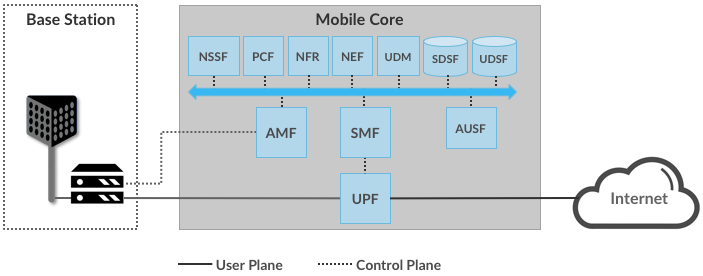
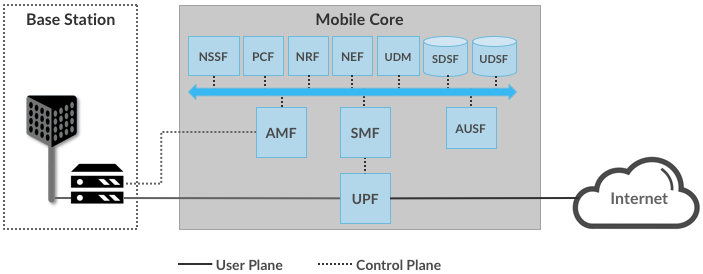
publish latest

diff --git a/searchindex.js b/searchindex.js
@@ -1,1 +1,1 @@
-Search.setIndex({docnames:["README","arch","cloud","disaggregate","impl","index","intro","preface","primer","ran"],envversion:{"sphinx.domains.c":1,"sphinx.domains.changeset":1,"sphinx.domains.cpp":1,"sphinx.domains.javascript":1,"sphinx.domains.math":2,"sphinx.domains.python":1,"sphinx.domains.rst":1,"sphinx.domains.std":1,"sphinx.ext.todo":1,sphinx:55},filenames:["README.rst","arch.rst","cloud.rst","disaggregate.rst","impl.rst","index.rst","intro.rst","preface.rst","primer.rst","ran.rst"],objects:{},objnames:{},objtypes:{},terms:{"100mhz":8,"10\u03bc":8,"10mhz":6,"10s":6,"120khz":8,"125m":8,"15khz":8,"1ghz":8,"1ms":[8,9],"24ghz":8,"25m":8,"30\u03bc":8,"30khz":8,"3gpp":[1,2,3,6,8,9],"3rd":6,"400mhz":8,"50mhz":8,"5ms":8,"60khz":8,"6ghz":8,"7x12":8,"abstract":[3,4,7,8],"break":[1,2,6],"byte":9,"case":[1,3,6,7,8],"class":[2,3,8],"final":[3,6,8,9],"function":[1,2,3,4,6,9],"import":[1,2,3,4,6,7,8],"long":6,"new":[0,1,2,3,6,9],"public":[2,3,6],"return":4,"short":[1,8],"super":8,"switch":[2,3,4,6,8,9],"true":1,"try":[4,7,8],"while":[1,3,6,8,9],And:[1,7],Being:2,But:[1,3,4,6,7,8,9],DUs:[4,9],For:[1,3,6,8],Going:3,IDs:9,NOS:3,Near:[2,9],One:[1,3,4,6,8,9],QoS:[1,2,3,8],RBs:3,REs:8,RUs:[4,9],Such:6,That:2,The:[0,1,2,3,4,6,7,8,9],There:[2,3,6,8],These:[1,3,4,6,8,9],UEs:[1,3,9],Used:4,Using:1,VMs:[2,6],With:[1,4,8,9],_build:0,abil:[2,3,8],abl:[2,3,9],abound:[],about:[1,2,3,4,5,6,7,8,9],abov:[6,8,9],abstractli:8,abund:3,access:[5,7,8,9],accommod:4,accompli:6,accord:[3,8,9],account:3,accur:8,acm:2,acquir:2,acronym:[1,4,6,7],across:[1,2,3,4,6,9],activ:[1,7,9],actual:[3,4],adapt:[2,8],add:[3,8],adding:[1,8],addit:[1,3,4,8],address:[0,1,2,8],adjac:8,adjust:8,adopt:[1,6,9],advanc:[1,4,5,6],advantag:2,affect:[3,8],again:8,aggreg:[1,6],aggress:6,agnost:[3,4,6,9],agricultur:1,aid:3,air:8,algorithm:[1,8],all:[1,2,3,4,6,8,9],allianc:9,alloc:[1,3,6,8],allow:[1,2,3,4,6,8,9],almost:1,alon:1,along:[6,8],alongsid:2,alreadi:[1,3,6],also:[0,1,2,3,4,6,7,8,9],altern:[1,3,4,6,9],although:[1,3,4,9],amazon:3,ambiti:[6,9],america:6,amf:[1,3],among:[0,3,8],amplitud:8,analog:[1,3],analysi:2,analyt:[2,3,9],analyz:[2,3],anchor:[1,6],ani:[2,3,6,8],anoth:[1,2,3,6,8,9],answer:[4,6],antenna:[1,8],anyon:[1,2,3,6,7,8],anywher:[4,6],api:[1,2,4,9],app:[3,4,9],appear:[1,4],appli:[2,6],applianc:[1,6],applic:[2,3,4,6,8,9],appreci:[6,8],approach:[0,1,4,6,8],appropri:[1,3],april:2,arbitrari:1,architect:[4,6],architectur:[3,5,6,8,9],area:[1,6,9],around:[6,8],arq:9,arrai:8,arrang:4,arriv:8,art:8,asic:4,asid:[1,3,6],ask:6,aspect:[1,2,3,4,6,9],aspir:6,assembl:[1,4],assign:[3,8,9],associ:[1,3,4,8],assum:8,assumpt:[2,8],atacent:4,attach:6,attent:[0,1,4,6],attenu:8,attribut:[0,8,9],auction:6,augment:6,august:7,ausf:1,authent:1,author:[0,1],auto:4,autonom:6,autonomi:2,avail:[0,1,2,3,4,6,8],avenu:9,averag:[8,9],awai:4,awar:3,axi:8,back:[0,1,2,3,6,8,9],backbon:6,backend:[2,7],backhaul:[1,4,9],backward:1,balanc:1,band:[6,8],bandwidth:[2,3,4,6,7,8],barrier:[2,3,6],base:[1,2,3,4,6,8,9],basi:[3,8],basic:[3,5],batteri:6,bearer:[1,9],becaus:[1,3,4,6,8],becom:[1,2,6,8],been:[1,3,4,6,7,9],befor:[1,3,4],beg:[6,8],began:6,behalf:[2,3,6,8,9],behavior:[3,4],being:[1,2,3,4,6,8,9],belong:8,below:8,benefit:3,best:[1,2,3,6,8],better:2,between:[1,2,3,4,6,7,8,9],beyond:[3,4,6,9],bgp:4,bias:[],big:[2,3,6],bill:1,binari:4,bit:[6,7,8],block:[1,2,3,8],blog:[0,1],blue:[3,4],blueprint:4,blur:[2,7],book:[2,3,4,5,7,9],bootstrap:4,both:[1,2,3,4,6,8,9],bought:1,bounc:8,bound:8,box:[2,3,4,6],brick:2,bridg:[1,4],bring:[6,8],broadband:[1,3,6,8],broader:1,browser:0,budget:8,buffer:9,build:[2,3,4,5,6],built:[4,6],bundl:1,burst:8,bus:1,busi:6,calcul:8,call:[1,2,3,4,6,8,9],came:1,campu:9,can:[0,1,2,3,4,6,7,8,9],candid:1,cannot:6,capabl:[1,2,4,5,9],capac:[2,3,6],car:[1,6,8],carri:[1,4],carrier:[1,8,9],categori:8,caveat:1,cbr:6,ccr:2,cdma:8,cell:[2,3,6,8,9],cellular:[1,2,3,4,6,7,8],central:[2,3,4,6,8,9],certain:[3,6],certainli:6,certif:4,chain:[1,2],challeng:[1,2,3,8],chang:[1,2,3,6,7,8,9],channel:[1,6,8],chapter:5,characterist:8,charg:[1,3,8],check:[0,6],chip:4,choic:[1,3,4,6],choos:3,cipher:9,circuit:[1,8],citi:1,citizen:6,claim:6,clean:3,clear:[1,6],clearli:[3,9],cli:4,clone:0,close:6,closer:[1,4,6],cloud:[1,4,5,7,9],cloudif:5,cluster:[3,4,9],coars:9,code:[1,3,4,5,9],coher:8,coincid:6,collabor:7,collect:[1,2,3,4,6],colloqui:6,color:8,com:0,comac:4,combin:[1,2,3,4,8],come:[3,7,9],commentari:0,commod:[1,2,4,6],commodit:2,common:[0,1,2,3,4,6,8,9],commonli:[1,2],commun:[0,1,3,4,6,8,9],compani:3,compat:1,compel:3,complet:[1,3,4,7,8,9],complex:[1,6,7],compliant:[1,2,9],complic:[6,8],compon:[2,3,5,6,9],comprehens:6,compress:9,comput:[2,3],conceptu:[1,3,8],concern:[1,7],concert:3,conclud:2,concret:[3,4,6],config:9,configur:[1,3,4,9],confus:[1,3],confusingli:3,connect:[1,2,3,4,6,7,8,9],consequ:[2,3,8],consid:[1,6,8],consist:1,constantli:2,constitu:9,constrain:[6,9],constraint:[3,8],construct:[1,2,9],contain:[0,1,2,3,4],content:[5,7,8],context:6,continu:[6,8],contract:4,contribut:[1,4,5,7],control:[1,2,3,4,6,9],convent:[2,4],converg:[2,9],convers:9,cool:[3,6],cooper:[1,3],coordin:1,copi:2,cord:[4,6],core:[2,4,5,8,9],correct:[0,8],correspond:[1,3,4,6,8,9],correspondingli:8,cost:6,could:[1,2,3,8],counterpart:[1,4],countri:6,cours:[3,8],coverag:8,cpu:3,cqi:[3,8,9],creat:0,creativ:0,credenti:1,critic:[2,6,8,9],cryptic:1,crypticli:1,cup:1,current:[0,4],custom:[1,2,3,4],cut:3,cycl:3,dare:6,data:[1,2,4,5,6,8,9],databas:[1,6],datacent:[2,3,6],deal:3,decad:6,decid:[1,3,8],decis:[1,3,4,6,8,9],declar:4,decompress:9,decoupl:[2,3],deeper:[1,3,4,7,8],defin:[1,2,3,4,5,6,8],definit:[4,6],degre:[6,8],delai:8,deliv:8,demarc:6,democrat:2,demonstr:4,demultiplex:[3,9],denot:[1,3,4,8],densiti:6,depend:[3,6,8],depict:[1,2,3,8,9],deploi:[1,2,4,6],deploy:[4,5,6,9],depth:[1,8],describ:[1,2,3,4,6,8,9],descript:[8,9],deserv:4,design:[1,2,3,4,6,8],desir:[1,9],despit:1,detail:[1,3,4,6,7,9],detect:[1,8],determin:[8,9],develop:[2,4,6,7],deviat:4,devic:[1,2,3,4,6,7,8,9],devop:[4,6],dhcp:4,diagram:[3,4],dictat:2,differ:[1,2,3,4,6,8],differenti:[1,2,3,8],digit:[1,3,8],dimens:[],dimension:[3,8],direct:[1,3,4,6,8],directli:[1,3,6],disaggreg:[1,2,3,4,6,9],disconnect:1,discov:1,discoveri:1,discuss:[1,3,4,6,8,9],distinct:1,distort:8,distribut:[2,3,4,6,9],divers:8,divid:[1,3],dividend:3,divis:8,doc_venv:0,document:[0,1,4,9],doe:[1,4,6,8,9],doesn:1,doing:[2,3,9],domain:[2,8],domin:7,done:[2,3,9],door:[1,6,8],down:[2,3,6,9],download:0,downstream:[4,9],dozen:3,dramat:2,drive:6,driven:9,drone:1,dryjanski:1,dual:[3,4],due:8,durat:8,dure:[8,9],dwell:6,dynam:[2,8],each:[1,2,3,4,6,8,9],earli:[1,9],earlier:[3,4,8,9],easi:2,easili:3,east:4,ebook:0,economi:3,edg:[1,2,3,4,5],effect:[1,3,6,8,9],effici:1,effort:[1,6,8],either:[1,3,6],elabor:4,elast:[2,3],electromagnet:8,element:[1,2,3,6,8,9],elev:3,els:[3,8],elsewher:[1,4],embed:6,emerg:2,empir:8,emploi:8,enabl:[1,3,4,9],enb:[1,9],encod:8,encompass:7,encycloped:7,end:[1,2,3,6,7,9],endeavor:6,energi:6,enforc:[1,2],engin:[1,3,4,6],enhan:6,enodeb:[1,3],enough:[4,7],ensur:1,enterpris:2,entir:[2,3,4,7,9],entireti:4,entiti:[1,3],entral:4,enumer:6,environ:[2,4,8],environment:8,epc:[1,4],equal:[1,3,9],equip:[1,8],error:8,essenti:[1,2,8],establish:1,even:[1,2,3,4,6,8],eventu:[2,3],everi:[1,7,8],everyon:[3,6],everyth:6,evid:8,evolut:6,evolutionari:6,evolv:[0,1,4,6],exactli:[1,3,4,6],exampl:[1,2,3,6,8,9],exclus:6,exemplar:[5,6],exercis:1,exert:9,exhaust:9,exist:[1,2,4,6],expand:[2,4],expect:[2,6],expens:3,experi:[6,7],experienc:8,expert:7,explain:[1,6,9],explicitli:8,exploit:3,explor:[3,8],expos:1,exposur:1,extend:[3,4,6],extern:1,extra:8,extrem:[3,6],fabric:[3,4,9],face:[1,6,9],facebook:0,facet:1,facil:3,facilit:3,fact:6,factor:[1,3,8,9],factori:9,fade:8,fair:7,fait:6,fall:[3,6],famili:8,familiar:[1,2,8,9],far:2,fast:6,faster:8,favor:7,feasibl:2,featur:[1,4,6],fec:9,feedback:[3,8],few:[6,9],ffice:4,fiber:[1,2,4,6],field:1,fifth:1,fig:[],figur:[1,2,3,4,7,8,9],file:0,fill:3,find:[0,4],first:[0,1,2,3,4,6,8,9],fit:1,five:1,fix:[4,8],flesh:7,flexibl:[1,3],flow:[3,8,9],focu:[8,9],focus:[1,4,8,9],follow:[0,1,3,4,6,8,9],forc:4,forese:7,form:[3,8,9],format:[0,8],former:[4,6],fortun:8,forward:[1,2,3,4,8,9],found:[1,2],foundat:[1,6,7,8],four:4,fourth:[1,3],fraction:3,fragment:1,frame:8,framework:[5,8],free:3,freedom:[6,8],frequenc:[1,6,8,9],from:[1,2,3,4,6,7,8,9],front:9,frontent:7,fronthaul:9,fulfil:1,full:1,fulli:[1,2,6],fundament:[1,2,3,6,8],further:[1,3,4,8],futur:[6,7,9],gatewai:1,gbp:6,gbr:8,gener:[0,1,2,3,4,6,7,8],geograph:[1,6,9],get:[0,1,3,4,6,9],ghz:6,git:0,github:0,give:[2,3,4,6,8],given:[1,3,4,6,8,9],global:[1,2,6],globe:6,gnb:1,gnmi:4,gnoi:4,goal:[3,4,6,8],goe:6,going:3,good:[1,6],googl:[3,6],govern:6,gpu:2,grain:9,granular:[1,2],graph:[1,3],grappl:1,gratuit:1,greater:6,grid:[3,8],ground:[6,8],group:1,grpc:4,gtp:[1,9],guarante:[2,3,8],guid:[0,4],had:7,halv:3,hand:[1,7],handoff:3,handov:1,handset:2,happen:[2,3,6,7],hard:7,harder:3,hardwar:[2,3,4,6],has:[1,2,3,4,6,7,8,9],have:[1,3,4,6,8],head:[3,6,7,9],header:9,hear:1,heard:[6,7],heavili:1,help:[1,2,3,4,6,7,8,9],helper:1,henc:[1,3,8,9],here:[0,1,6,8],heterogen:2,heurist:2,hidden:7,hide:3,hierarchi:9,high:[2,3,6,8],higher:[3,8],highli:[2,3,4,8],highlight:1,histor:[1,3,6],histori:6,home:[1,4,6],hope:[0,7],horizont:6,host:[2,4,6,9],how:[0,1,2,3,4,6,8,9],hss:[1,3],html:0,http:0,human:[2,6],hundr:6,hype:7,hypervisor:3,iceberg:1,idea:[1,3,4,6,8,9],ideal:6,ident:1,identifi:[1,2,6,8,9],idl:[1,8,9],ieee:6,ietf:1,ignor:[1,7],illustr:[1,4,6,8],immers:6,impact:[2,6,8],impair:8,implement:[1,2,3,5,6,7,9],impli:[1,2,3,4,6,7,8],implicit:[],importantli:2,impos:[2,8],imposs:7,improv:[0,4],includ:[0,1,2,3,4,6,8,9],incom:3,increas:[2,6,8],increasingli:[1,6],increment:[1,4],independ:[2,3,4,6,8],index:3,indic:8,indirect:[3,6],indirectli:1,individu:[1,2,4],industri:[1,3,6],influenc:1,inform:[0,1,3,4,8,9],infrastructur:[2,3,6],inher:2,inner:4,innov:[2,7,8,9],input:8,insert:8,insid:7,insight:9,inspir:6,instal:[0,4],instanc:3,instantan:9,instanti:4,instead:[1,4,8],instruct:3,integr:[2,6,9],intellectu:1,intend:[7,8,9],intent:6,intercept:1,interconnect:[1,2,3,6],interfac:[2,4,6,9],interfer:[3,8],intermitt:1,intern:[1,3,4,5],internet:[0,1,3,4,6,7],interpret:[4,6,8],interv:[8,9],introduc:[1,3,4,6,7,8,9],introduct:[1,4,5],intuit:8,invari:8,invers:8,invit:0,involv:[1,2,3,6,7,9],iot:[1,3,6,8],ipv4:4,ipv6:4,isdn:1,isol:[2,6],issu:[0,1,6],its:[1,2,3,4,6,7,8],job:[3,8],judg:8,judgement:3,just:[1,2,3,6,7,8],justic:1,keep:[1,3,4,6,8,9],kei:[1,3,4,8,9],kilobit:6,kilomet:6,kind:[1,6],know:7,known:[1,3,6,8],kpi:9,kubernet:4,label:[3,9],lack:1,lai:[6,8],lambda:2,landscap:5,languag:3,larg:[1,3,4,6,7],larger:[1,3],larri:[0,7],last:[1,6,7,8,9],late:9,latenc:[1,2,3,6,9],later:[1,4,6,8,9],latter:[1,3,6,9],law:1,layer:[1,3,4,6,9],lead:[6,8],leaf:[3,4],learn:[0,4,6],leav:[3,4,6],led:9,left:9,legaci:6,len:6,length:9,less:3,level:[1,2,3,6,8],licens:[0,6],life:6,lifetim:6,lightli:8,like:[0,1,2,3,4,6,7,8,9],likewis:8,limit:[3,4,6,7],line:[2,3,7,8],linear:3,link:[1,8,9],lint:0,list:[0,6,9],littl:6,live:[0,4],load:[1,4,8],local:[1,3,4],locat:[1,2,3,6,9],lock:3,logic:[3,4],longer:8,look:[0,1,3],loop:[2,9],lose:2,loss:[1,8],low:[2,3,6,9],lower:[2,3,6],lte:[6,8],mac:[3,9],machin:1,macro:3,made:[1,2,3,7,8],mai:[1,8],main:[5,9],maintain:9,major:[3,4,8],make:[0,1,2,3,4,6,8,9],makefil:0,mall:9,manag:[1,2,4,6,7,9],mani:[1,2,3,4,6,8,9],manifest:4,manipul:4,map:3,march:1,marcin:1,massiv:[1,3,6,8],match:8,materi:[0,7],math:[],mathsf:[],matter:[1,8],matur:4,maxim:8,maximum:8,mbp:6,mean:[1,3,4,6,8,9],meaning:9,measur:[6,9],mechan:[1,2,3,8],media:9,medic:1,medium:8,meet:1,megabit:6,mention:8,merg:[0,4],mesh:[1,3],messag:[1,8],met:6,metric:8,metropolitan:1,mhz:6,microservic:[1,3,4,6,9],mid:6,midhaul:[4,9],might:[0,1,2,3,4,6,8,9],migrat:[1,6],mile:[6,7],millimet:[6,8],million:6,millisecond:8,mimo:8,mind:[1,3,4,6,8,9],minim:[2,3,4,8],mission:[6,8],mkdir:0,mme:[1,3],mmwave:[6,8,9],mobil:[0,2,3,4,6,7,8,9],mode:4,model:[1,4,8],modern:3,modestli:9,modul:[3,4,5,9],monet:[2,3],more:[1,2,3,4,6,7,8,9],most:[3,8,9],mostli:[6,9],move:[1,2,3,6,8],movement:[1,8],mpl:4,mtso:6,much:[2,6,7,8],multi:[1,4,5,6],multicast:4,multipath:[1,8],multipl:[1,2,3,4,8,9],multiplex:[8,9],municip:6,must:[3,6,8,9],mutual:6,mvno:3,myriad:7,mysteri:7,name:[1,3,4,6],narrow:8,nation:6,nativ:[1,2,6],natur:[8,9],naval:6,navig:6,nbi:4,necessari:[1,3,4],need:[0,1,2,3,8,9],nef:1,neighbor:[1,9],nest:1,network:[0,2,4,7,8,9],next:[1,3,6,8,9],nfr:1,nfv:[1,6],nib:9,nine:8,node:[1,6,9],nois:8,non:[1,8],north:6,northbound:4,note:[1,3,6,8,9],noteworthi:1,notic:0,now:[1,2,3,4,6,7,9],nssf:[1,3],number:[2,3,6,8,9],nutshel:6,object:[6,8],observ:[1,2,8],obviou:[1,6],obvious:1,occupi:6,octob:6,ofdma:[3,8],off:[4,6,8],offer:[2,3,6,8],offic:[3,4,6],offici:[1,4,6,9],often:[1,3,6,8],oguz:[0,7],old:6,onc:[3,6,8],one:[1,3,4,6,7,8,9],ones:4,onli:[1,3,4,6,8,9],onlin:0,ono:[3,4],onto:[3,4],opaqu:1,open:[0,1,2,3,4,6,7,8,9],openconfig:4,opencord:[],oper:[1,2,3,4,6,8,9],opportun:[1,5,7],oppos:[1,6],optic:[1,6],optim:[4,5,8],optimist:8,option:[4,5,6,8],orang:4,orchestr:2,order:2,org:0,organ:[1,2,3],orient:[1,2,7,8,9],origin:[1,6,8,9],orthogon:8,other:[0,1,2,3,4,6,7,8,9],otherwis:7,ott:2,our:[1,3,4,6,8],ourselv:6,out:[0,1,2,3,6,7],outbound:9,outgo:1,outlin:[1,4,9],output:[0,8],over:[1,2,3,6,7,8,9],overal:6,overhead:2,overlai:3,overlap:[3,8],overnight:6,overview:[1,2,4],overwhelm:6,own:[2,3,4,6],owner:6,p4runtim:4,pace:2,packet:[1,3,4,5,6,8],pai:[3,6],pair:[1,3,4],pairwis:1,parallel:6,paramet:[8,9],part:[1,3,4,6,9],parti:1,partial:4,particip:[],particular:[1,4,9],particularli:1,partit:[1,3,9],partli:1,partnership:6,passiv:[1,6],past:6,path:[1,3,6,8,9],pattern:1,payload:1,pcdp:3,pcf:1,pcrf:[1,3],pdcp:[3,9],pdf:0,peak:6,penetr:7,peopl:[2,7],per:[1,3,4,6,8,9],perceiv:1,perfect:3,perform:[2,3,4],perhap:9,period:[1,8,9],peripheri:6,permit:6,persist:9,person:7,perspect:[1,2,6,7,8],peterson:[0,7],pgw:[1,3,4],phase:[1,8],phy:[3,9],physic:[1,3,6,8,9],pictur:[2,3,9],piec:8,pipelin:[2,3,4,5],place:[1,3,4,6],placement:2,plai:[1,2,4,8],plan:[1,7],plane:[1,4,5,9],platform:[2,5,6],plu:[4,8,9],plug:8,pod:4,point:[1,2,3,6,9],polar:8,polic:1,polici:[1,9],pon:[1,6],popul:[4,6],portion:6,possibl:[1,3,4,6,8,9],post:[0,1],potenti:[1,2,4,6,7,9],power:[1,3,6],practic:[1,2,3,4,6,8,9],prb:8,preced:8,predetermin:1,predict:[3,9],prefac:5,premis:[2,4],premium:3,prepar:8,prescrib:[1,3],presenc:6,present:[1,6],pressur:6,presum:1,preval:1,preview:3,previou:[1,2,3,4,8,9],primari:[6,8],prime:1,primer:8,principl:[3,6,9],prior:1,prioriti:[3,6,8],privat:[2,6],problem:[2,3,8],process:[0,1,3,4,5],processor:[1,2,3],product:[4,6],profil:4,program:[2,3,4],programm:[3,4],programmat:[4,9],progress:[0,4,7],project:[0,6],promis:[1,6],propag:8,properti:[1,8],proport:8,proposit:3,proprietari:[1,6,7],protect:9,proto:3,protocol:[1,3,9],prototyp:4,provid:[1,2,3,4,6,7,8,9],proxim:6,pseudowir:4,pstn:6,publish:0,pull:[0,3,7],puls:8,pure:9,purpos:[1,3,4,6,8,9],pursu:9,push:3,put:2,python:0,qam:8,qci:[3,8,9],qinq:4,quadratur:8,qualit:2,qualiti:[1,4,8],question:[4,6,8],queue:[3,9],quit:4,rack:4,radar:6,radio:[3,5,6,9],rais:7,ramif:6,ran:[1,2,4,5],rang:[2,6,8,9],rapidli:6,rate:[3,6,8],rather:[1,6],ratio:8,rcc:9,reach:[1,8],reachabl:1,read:[5,6,9],reader:[1,6,7],readi:4,readili:1,real:[2,3,4,9],realiti:[2,6,8],realiz:[3,4],realli:1,realtim:3,reason:[1,3,4,6],reassembl:9,recal:4,receiv:[0,3,6,8,9],recent:1,recogn:1,recommend:6,reconcil:2,record:1,recov:8,red:4,redraw:1,reduc:[3,4],reduct:2,ref:[],refactor:[1,2],refer:[1,2,3,6],referenc:1,reflect:8,refresh:0,region:6,regist:6,registr:1,rel:8,relai:4,relat:[1,3,4,9],relationship:8,releas:[1,4,6],relev:6,reliabl:[3,6,8,9],reload:0,remain:[1,3,4,8],remot:[2,3],renam:3,repeat:3,replac:4,replic:[3,6],report:[1,6,8,9],repositori:[0,1],repres:8,represent:[1,4],request:[0,9],requir:[0,1,2,3,4,6,9],research:5,reserv:[3,8],resourc:[2,3,8,9],respect:[1,3,4,8],respond:4,respons:[1,2,3,8,9],rest:[3,4,6,8,9],restat:3,restrict:3,result:[1,3,4,6,7,8,9],review:3,revisit:1,rich:[4,6],richer:6,right:[4,6,9],ring:1,risk:8,rlc:[3,9],robot:[1,6],role:[1,4,8],rollback:4,rollout:4,room:[3,6],root:8,roughli:1,rout:[1,4],router:[1,4],rrc:[3,9],rrm:9,rule:1,run:[0,1,2,3,4,6,9],runtim:4,safeti:[3,6],sai:[1,6,7,8],said:1,sake:4,same:[0,1,2,3,6,7,9],satellit:6,satisfi:1,save:0,savvi:7,scalabl:[1,2,3,4,6],scale:[2,3],scenario:[2,6,8],schedul:[1,3,5,9],schemat:4,scheme:8,scope:[3,4,7,9],scratch:1,sctp:1,sdn:[1,2,3,4,6,9],sdsf:1,seamlessli:2,seba:4,second:[1,3,4,6,8],section:[1,3,4,8],secur:2,see:[0,1,2,4,6,8,9],seem:[1,6],seemingli:7,seen:3,segment:[1,3,9],seldom:9,select:[1,3,4,8],selector:1,self:6,sell:6,semant:4,semi:9,send:[3,8,9],sens:8,sent:8,separ:[1,3],septemb:6,sequenc:[2,3,6,8],serv:[1,6,8,9],server:[1,3,4,6],servic:[1,2,3,4,6,8,9],session:[1,9],set:[1,3,4,6,7,8,9],sever:[1,3,4,6],sgw:[1,3,4],shape:[1,8],share:[3,6,7,8],shift:[1,8],shorter:8,should:[0,4,6],shouldn:6,show:[1,2,3,4,8,9],shown:[1,3,4,8,9],sigcomm:2,sight:[2,8],signal:[1,3,8],signific:[1,6],silent:[1,9],silo:2,similar:[1,6,9],simpler:3,simplest:9,simpli:9,simplic:6,simplif:3,simplifi:4,simultan:[6,8],sinc:[1,2,9],sine:8,singl:[1,2,3,4,6,8,9],sit:3,site:[1,2,3,4,6],situat:1,sixth:1,sizabl:4,size:[1,3,6,8,9],sketch:1,sla:1,slice:[1,2,4,5,9],slightli:1,sling:[],slot:8,small:[6,9],smartphon:[1,6],smf:[1,3],softwar:[2,3,4,5,6,7],solut:[1,2,6],solv:8,some:[2,3,4,6,8,9],someon:[1,7,8],someth:0,sometim:[1,2,6],somewhat:3,sophist:1,sort:3,sourc:[0,1,4,7],space:[3,7,8],span:2,spec:[1,3],special:[1,3,6],specif:[1,2,4,6,8,9],specifi:[1,3,8,9],spectrum:[1,3,6,8],speed:8,spell:1,spine:[3,4],split:[1,3,5],spread:[1,6,8,9],sql:1,squar:6,sst:3,stack:9,stage:[4,9],stakehold:[2,6],stand:1,standard:[1,3,4,5,9],starbuck:6,start:[1,3,4,6,8],state:[1,4,8,9],stateless:1,station:[1,6,8,9],stationari:8,statu:8,step:[1,2,3,4,6,9],still:[1,6],stone:6,storag:[1,2],store:[0,1],stori:1,straightforward:1,strategi:[1,3,8],stratum:4,stream:[1,3,4,8],stress:1,strictli:4,strive:8,structur:[1,3,9],sub:[1,8,9],subband:8,subcarri:8,subcompon:2,subscrib:[1,2,3,6,8],subscript:1,subsequ:8,subset:[3,8],substanti:[2,4],substitut:[1,4,8],subsum:2,subsystem:[1,3,4],suburban:8,success:7,suffici:[3,4,7],suggest:[1,7],summar:[1,6],summari:6,sunai:[0,7],support:[1,2,3,4,6,8],sure:[1,3],surpris:1,surround:6,sustain:[3,6],swarm:6,symbol:8,synonym:6,system:[0,1,2,3,4,6,7,8],systemsapproach:0,t_c:8,tabl:[4,5],tablet:1,tailor:[1,2,3],take:[1,2,3,8],takeawai:[1,3,6],taken:4,talk:[6,7,8],target:[6,8],tbp:6,tcp:1,tdma:8,teach:7,technic:6,techniqu:[1,2],technolog:[1,2,4,6,7,8],telco:[2,6],telecommun:1,telephon:6,telephoni:[1,6],ten:[2,6,7],tenanc:2,tenant:[2,4],tenfold:6,term:[0,1,4,6],termin:4,terminolog:[1,3,6,8],test:[4,6],text:6,than:[1,2,3,6,7],thei:[1,2,3,4,6,8,9],them:[1,2,4,6],theoret:8,therebi:9,thi:[1,2,3,4,5,6,7,8,9],thin:4,thing:[0,3,6,7],think:[3,4,6,9],third:[1,3],those:[1,2,3,4,6,8],though:[1,4,6],thousand:[2,6],thread:7,three:[1,3,4,6,8,9],through:[2,3,6,8],throughout:[1,2,3,6,9],tier:6,tight:2,time:[1,2,3,4,6,7,8,9],tip:1,titl:0,todai:[1,2,6],todo:0,tofino:3,togeth:[2,3,6],toler:3,tool:4,toolchain:4,toolset:0,top:[2,3,4,9],topic:8,topolog:[1,3,4],total:[3,8],touch:9,toward:[1,6,9],tower:[2,3,6,8,9],tpu:2,track:[0,1,3,6],tradit:[3,6,9],traffic:[1,3,4,8,9],train:[7,8],transfer:1,transform:[2,4,6,7,9],transit:[1,6,7,8],translat:[1,3],transmiss:[1,3,5,9],transmit:[3,6,8,9],transmitt:8,transport:1,travers:3,treatment:8,trelli:4,trend:6,trial:4,troubleshoot:4,trust:[1,2],tti:8,tunnel:[1,9],turbo:8,turn:[1,2,6,7,8,9],tutori:[],twitter:0,two:[1,3,4,6,8,9],type:[3,6,8,9],typic:[1,3,6,8,9],uber:3,udm:1,udp:1,udsf:1,ultim:[3,9],ultra:[3,6],under:0,undergo:2,undergon:6,underlai:3,underli:[2,3,4],understand:[1,2,3,4,6,7,8,9],understood:[1,3],underwai:1,undoubtedli:[6,7],undu:8,unfamiliar:6,unicast:4,unifi:1,uninterrupt:1,uniqu:8,unit:[3,8,9],unless:7,unlicens:6,unlik:[6,8],unravel:7,unreason:1,unstructur:1,until:1,updat:0,upf:[1,3],upgrad:[4,7],upon:1,upper:3,upstream:[1,4,9],urban:8,usag:[1,9],use:[0,1,2,3,4,6,8,9],used:[1,4,6,7,8],useful:7,user:[1,2,3,4,6,8,9],uses:[4,8],using:[1,2,3,4,8],util:[1,6,8],valid:[3,9],valu:[1,3,6,7,8,9],valuabl:1,vari:[3,6],variabl:4,variat:8,variou:[6,8],vehicl:[2,6],veloc:8,vendor:[1,4],veri:1,version:[0,9],vertic:2,via:[1,6],viabl:6,video:3,view:[1,4,9],viewabl:0,virtual:[1,2,3,4,6,9],virtualenv:0,vlan:4,vnf:2,voic:[1,6],wai:[1,2,3,4,6,8,9],want:[3,7],warehous:6,wave:[6,8],waveform:8,wealth:2,web:0,welcom:7,well:[1,2,3,4,8],went:2,were:1,west:4,what:[1,2,3,4,6,8,9],when:[1,3,4,6,8,9],where:[1,3,4,6,7,8,9],wherea:[3,8,9],whereabout:1,wherebi:1,whether:[1,6,8,9],which:[0,1,2,3,4,6,7,8,9],white:[2,3,4,6],whitebox:3,who:[6,8],whole:[1,2],why:3,wide:[1,2,3,6,8,9],wider:8,wifi:2,wiki:0,willing:0,win:6,window:8,wire:[1,4,6],wireless:[1,3,8],wirelin:[1,6],within:[4,6,8,9],without:[1,8],won:6,word:1,work:[0,1,3,4,6,7],workload:[2,3],world:[1,6,7],worth:[3,6],would:[1,3,9],write:[],written:7,xour:[],year:[1,6,7],yet:[1,4,6],yield:8,you:[0,1,3,4,6,7,9],your:[0,3,7],yourself:7,zero:9},titles:["About This Book","Chapter 3:  Basic Architecture","Chapter 7:  Cloudification of Access","Chapter 5:  Advanced Capabilities","Chapter 6:  Exemplar Implementation","5G Mobile Networks: A Systems Approach","Chapter 1:  Introduction","Preface","Chapter 2:  Radio Transmission","Chapter 4:  RAN Internals"],titleterms:{about:0,access:[1,2,6],advanc:3,approach:5,architectur:1,basic:1,book:0,build:0,capabl:3,chapter:[1,2,3,4,6,8,9],cloud:[2,3,6],cloudif:2,code:8,compon:[1,4],contribut:0,core:[1,3],data:3,defin:9,deploy:1,edg:6,exemplar:4,framework:4,implement:4,intern:9,introduct:6,landscap:6,main:1,mobil:[1,5],modul:8,multi:[2,3],network:[1,3,5,6],opportun:2,optim:3,option:1,packet:9,pipelin:9,plane:3,platform:4,prefac:7,process:9,radio:[1,8],ran:[3,9],read:0,research:2,schedul:8,slice:3,softwar:9,split:9,standard:6,system:5,thi:0,transmiss:8}})
+Search.setIndex({docnames:["README","arch","cloud","disaggregate","impl","index","intro","preface","primer","ran"],envversion:{"sphinx.domains.c":1,"sphinx.domains.changeset":1,"sphinx.domains.cpp":1,"sphinx.domains.javascript":1,"sphinx.domains.math":2,"sphinx.domains.python":1,"sphinx.domains.rst":1,"sphinx.domains.std":1,"sphinx.ext.todo":1,sphinx:55},filenames:["README.rst","arch.rst","cloud.rst","disaggregate.rst","impl.rst","index.rst","intro.rst","preface.rst","primer.rst","ran.rst"],objects:{},objnames:{},objtypes:{},terms:{"100mhz":8,"10\u03bc":8,"10mhz":6,"10s":6,"120khz":8,"125m":8,"15khz":8,"1ghz":8,"1ms":[8,9],"24ghz":8,"25m":8,"30\u03bc":8,"30khz":8,"3gpp":[1,2,3,6,8,9],"3rd":6,"400mhz":8,"50mhz":8,"5ms":8,"60khz":8,"6ghz":8,"7x12":8,"abstract":[3,4,7,8],"break":[1,2,6],"byte":9,"case":[1,3,6,7,8],"class":[2,3,8],"final":[3,6,8,9],"function":[1,2,3,4,6,9],"import":[1,2,3,4,6,7,8],"long":6,"new":[0,1,2,3,6,9],"public":[2,3,6],"return":4,"short":[1,8],"super":8,"switch":[2,3,4,6,8,9],"true":1,"try":[4,7,8],"while":[1,3,6,8,9],And:[1,7],Being:2,But:[1,3,4,6,7,8,9],DUs:[4,9],For:[1,3,6,8],Going:3,IDs:9,NOS:3,Near:[2,9],One:[1,3,4,6,8,9],QoS:[1,2,3,8],RBs:3,REs:8,RUs:[4,9],Such:6,That:2,The:[0,1,2,3,4,6,7,8,9],There:[2,3,6,8],These:[1,3,4,6,8,9],UEs:[1,3,9],Used:4,Using:1,VMs:[2,6],With:[1,4,8,9],_build:0,abil:[2,3,8],abl:[2,3,9],abound:[],about:[1,2,3,4,5,6,7,8,9],abov:[6,8,9],abstractli:8,abund:3,access:[5,7,8,9],accommod:4,accompli:6,accord:[3,8,9],account:3,accur:8,acm:2,acquir:2,acronym:[1,4,6,7],across:[1,2,3,4,6,9],activ:[1,7,9],actual:[3,4],adapt:[2,8],add:[3,8],adding:[1,8],addit:[1,3,4,8],address:[0,1,2,8],adjac:8,adjust:8,adopt:[1,6,9],advanc:[1,4,5,6],advantag:2,affect:[3,8],again:8,aggreg:[1,6],aggress:6,agnost:[3,4,6,9],agricultur:1,aid:3,air:8,algorithm:[1,8],all:[1,2,3,4,6,8,9],allianc:9,alloc:[1,3,6,8],allow:[1,2,3,4,6,8,9],almost:1,alon:1,along:[6,8],alongsid:2,alreadi:[1,3,6],also:[0,1,2,3,4,6,7,8,9],altern:[1,3,4,6,9],although:[1,3,4,9],amazon:3,ambiti:[6,9],america:6,amf:[1,3],among:[0,3,8],amplitud:8,analog:[1,3],analysi:2,analyt:[2,3,9],analyz:[2,3],anchor:[1,6],ani:[2,3,6,8],anoth:[1,2,3,6,8,9],answer:[4,6],antenna:[1,8],anyon:[1,2,3,6,7,8],anywher:[4,6],api:[1,2,4,9],app:[3,4,9],appear:[1,4],appli:[2,6],applianc:[1,6],applic:[2,3,4,6,8,9],appreci:[6,8],approach:[0,1,4,6,8],appropri:[1,3],april:2,arbitrari:1,architect:[4,6],architectur:[3,5,6,8,9],area:[1,6,9],around:[6,8],arq:9,arrai:8,arrang:4,arriv:8,art:8,asic:4,asid:[1,3,6],ask:6,aspect:[1,2,3,4,6,9],aspir:6,assembl:[1,4],assign:[3,8,9],associ:[1,3,4,8],assum:8,assumpt:[2,8],atacent:4,attach:6,attent:[0,1,4,6],attenu:8,attribut:[0,8,9],auction:6,augment:6,august:7,ausf:1,authent:1,author:[0,1],auto:4,autonom:6,autonomi:2,avail:[0,1,2,3,4,6,8],avenu:9,averag:[8,9],awai:4,awar:3,axi:8,back:[0,1,2,3,6,8,9],backbon:6,backend:[2,7],backhaul:[1,4,9],backward:1,balanc:1,band:[6,8],bandwidth:[2,3,4,6,7,8],barrier:[2,3,6],base:[1,2,3,4,6,8,9],basi:[3,8],basic:[3,5],batteri:6,bearer:[1,9],becaus:[1,3,4,6,8],becom:[1,2,6,8],been:[1,3,4,6,7,9],befor:[1,3,4],beg:[6,8],began:6,behalf:[2,3,6,8,9],behavior:[3,4],being:[1,2,3,4,6,8,9],belong:8,below:8,benefit:3,best:[1,2,3,6,8],better:2,between:[1,2,3,4,6,7,8,9],beyond:[3,4,6,9],bgp:4,bias:[],big:[2,3,6],bill:1,binari:4,bit:[6,7,8],block:[1,2,3,8],blog:[0,1],blue:[3,4],blueprint:4,blur:[2,7],book:[2,3,4,5,7,9],bootstrap:4,both:[1,2,3,4,6,8,9],bought:1,bounc:8,bound:8,box:[2,3,4,6],brick:2,bridg:[1,4],bring:[6,8],broadband:[1,3,6,8],broader:1,browser:0,budget:8,buffer:9,build:[2,3,4,5,6],built:[4,6],bundl:1,burst:8,bus:1,busi:6,calcul:8,call:[1,2,3,4,6,8,9],came:1,campu:9,can:[0,1,2,3,4,6,7,8,9],candid:1,cannot:6,capabl:[1,2,4,5,9],capac:[2,3,6],car:[1,6,8],carri:[1,4],carrier:[1,8,9],categori:8,caveat:1,cbr:6,ccr:2,cdma:8,cell:[2,3,6,8,9],cellular:[1,2,3,4,6,7,8],central:[2,3,4,6,8,9],certain:[3,6],certainli:6,certif:4,chain:[1,2],challeng:[1,2,3,8],chang:[1,2,3,6,7,8,9],channel:[1,6,8],chapter:5,characterist:8,charg:[1,3,8],check:[0,6],chip:4,choic:[1,3,4,6],choos:3,cipher:9,circuit:[1,8],citi:1,citizen:6,claim:6,clean:3,clear:[1,6],clearli:[3,9],cli:4,clone:0,close:6,closer:[1,4,6],cloud:[1,4,5,7,9],cloudif:5,cluster:[3,4,9],coars:9,code:[1,3,4,5,9],coher:8,coincid:6,collabor:7,collect:[1,2,3,4,6],colloqui:6,color:8,com:0,comac:4,combin:[1,2,3,4,8],come:[3,7,9],commentari:0,commod:[1,2,4,6],commodit:2,common:[0,1,2,3,4,6,8,9],commonli:[1,2],commun:[0,1,3,4,6,8,9],compani:3,compat:1,compel:3,complet:[1,3,4,7,8,9],complex:[1,6,7],compliant:[1,2,9],complic:[6,8],compon:[2,3,5,6,9],comprehens:6,compress:9,comput:[2,3],conceptu:[1,3,8],concern:[1,7],concert:3,conclud:2,concret:[3,4,6],config:9,configur:[1,3,4,9],confus:[1,3],confusingli:3,connect:[1,2,3,4,6,7,8,9],consequ:[2,3,8],consid:[1,6,8],consist:1,constantli:2,constitu:9,constrain:[6,9],constraint:[3,8],construct:[1,2,9],contain:[0,1,2,3,4],content:[5,7,8],context:6,continu:[6,8],contract:4,contribut:[1,4,5,7],control:[1,2,3,4,6,9],convent:[2,4],converg:[2,9],convers:9,cool:[3,6],cooper:[1,3],coordin:1,copi:2,cord:[4,6],core:[2,4,5,8,9],correct:[0,8],correspond:[1,3,4,6,8,9],correspondingli:8,cost:6,could:[1,2,3,8],counterpart:[1,4],countri:6,cours:[3,8],coverag:8,cpu:3,cqi:[3,8,9],creat:0,creativ:0,credenti:1,critic:[2,6,8,9],cryptic:1,crypticli:1,cup:1,current:[0,4],custom:[1,2,3,4],cut:3,cycl:3,dare:6,data:[1,2,4,5,6,8,9],databas:[1,6],datacent:[2,3,6],deal:3,decad:6,decid:[1,3,8],decis:[1,3,4,6,8,9],declar:4,decompress:9,decoupl:[2,3],deeper:[1,3,4,7,8],defin:[1,2,3,4,5,6,8],definit:[4,6],degre:[6,8],delai:8,deliv:8,demarc:6,democrat:2,demonstr:4,demultiplex:[3,9],denot:[1,3,4,8],densiti:6,depend:[3,6,8],depict:[1,2,3,8,9],deploi:[1,2,4,6],deploy:[4,5,6,9],depth:[1,8],describ:[1,2,3,4,6,8,9],descript:[8,9],deserv:4,design:[1,2,3,4,6,8],desir:[1,9],despit:1,detail:[1,3,4,6,7,9],detect:[1,8],determin:[8,9],develop:[2,4,6,7],deviat:4,devic:[1,2,3,4,6,7,8,9],devop:[4,6],dhcp:4,diagram:[3,4],dictat:2,differ:[1,2,3,4,6,8],differenti:[1,2,3,8],digit:[1,3,8],dimens:[],dimension:[3,8],direct:[1,3,4,6,8],directli:[1,3,6],disaggreg:[1,2,3,4,6,9],disconnect:1,discov:1,discoveri:1,discuss:[1,3,4,6,8,9],distinct:1,distort:8,distribut:[2,3,4,6,9],divers:8,divid:[1,3],dividend:3,divis:8,doc_venv:0,document:[0,1,4,9],doe:[1,4,6,8,9],doesn:1,doing:[2,3,9],domain:[2,8],domin:7,done:[2,3,9],door:[1,6,8],down:[2,3,6,9],download:0,downstream:[4,9],dozen:3,dramat:2,drive:6,driven:9,drone:1,dryjanski:1,dual:[3,4],due:8,durat:8,dure:[8,9],dwell:6,dynam:[2,8],each:[1,2,3,4,6,8,9],earli:[1,9],earlier:[3,4,8,9],easi:2,easili:3,east:4,ebook:0,economi:3,edg:[1,2,3,4,5],effect:[1,3,6,8,9],effici:1,effort:[1,6,8],either:[1,3,6],elabor:4,elast:[2,3],electromagnet:8,element:[1,2,3,6,8,9],elev:3,els:[3,8],elsewher:[1,4],embed:6,emerg:2,empir:8,emploi:8,enabl:[1,3,4,9],enb:[1,9],encod:8,encompass:7,encycloped:7,end:[1,2,3,6,7,9],endeavor:6,energi:6,enforc:[1,2],engin:[1,3,4,6],enhan:6,enodeb:[1,3],enough:[4,7],ensur:1,enterpris:2,entir:[2,3,4,7,9],entireti:4,entiti:[1,3],entral:4,enumer:6,environ:[2,4,8],environment:8,epc:[1,4],equal:[1,3,9],equip:[1,8],error:8,essenti:[1,2,8],establish:1,even:[1,2,3,4,6,8],eventu:[2,3],everi:[1,7,8],everyon:[3,6],everyth:6,evid:8,evolut:6,evolutionari:6,evolv:[0,1,4,6],exactli:[1,3,4,6],exampl:[1,2,3,6,8,9],exclus:6,exemplar:[5,6],exercis:1,exert:9,exhaust:9,exist:[1,2,4,6],expand:[2,4],expect:[2,6],expens:3,experi:[6,7],experienc:8,expert:7,explain:[1,6,9],explicitli:8,exploit:3,explor:[3,8],expos:1,exposur:1,extend:[3,4,6],extern:1,extra:8,extrem:[3,6],fabric:[3,4,9],face:[1,6,9],facebook:0,facet:1,facil:3,facilit:3,fact:6,factor:[1,3,8,9],factori:9,fade:8,fair:7,fait:6,fall:[3,6],famili:8,familiar:[1,2,8,9],far:2,fast:6,faster:8,favor:7,feasibl:2,featur:[1,4,6],fec:9,feedback:[3,8],few:[6,9],ffice:4,fiber:[1,2,4,6],field:1,fifth:1,fig:[],figur:[1,2,3,4,7,8,9],file:0,fill:3,find:[0,4],first:[0,1,2,3,4,6,8,9],fit:1,five:1,fix:[4,8],flesh:7,flexibl:[1,3,8],flow:[3,8,9],focu:[8,9],focus:[1,4,8,9],follow:[0,1,3,4,6,8,9],forc:4,forese:7,form:[3,8,9],format:[0,8],former:[4,6],fortun:8,forward:[1,2,3,4,8,9],found:[1,2],foundat:[1,6,7,8],four:4,fourth:[1,3],fraction:3,fragment:1,frame:8,framework:[5,8],free:3,freedom:[6,8],frequenc:[1,6,8,9],from:[1,2,3,4,6,7,8,9],front:9,frontent:7,fronthaul:9,fulfil:1,full:1,fulli:[1,2,6],fundament:[1,2,3,6,8],further:[1,3,4,8],futur:[6,7,9],gatewai:1,gbp:6,gbr:8,gener:[0,1,2,3,4,6,7,8],geograph:[1,6,9],get:[0,1,3,4,6,9],ghz:6,git:0,github:0,give:[2,3,4,6,8],given:[1,3,4,6,8,9],global:[1,2,6],globe:6,gnb:1,gnmi:4,gnoi:4,goal:[3,4,6,8],goe:6,going:3,good:[1,6],googl:[3,6],govern:6,gpu:2,grain:9,granular:[1,2],graph:[1,3],grappl:1,gratuit:1,greater:6,grid:[3,8],ground:[6,8],group:1,grpc:4,gtp:[1,9],guarante:[2,3,8],guid:[0,4],had:7,halv:3,hand:[1,7],handoff:3,handov:1,handset:2,happen:[2,3,6,7],hard:7,harder:3,hardwar:[2,3,4,6],has:[1,2,3,4,6,7,8,9],have:[1,3,4,6,8],head:[3,6,7,9],header:9,hear:1,heard:[6,7],heavili:1,help:[1,2,3,4,6,7,8,9],helper:1,henc:[1,3,8,9],here:[0,1,6,8],heterogen:2,heurist:2,hidden:7,hide:3,hierarchi:9,high:[2,3,6,8],higher:[3,8],highli:[2,3,4,8],highlight:1,histor:[1,3,6],histori:6,home:[1,4,6],hope:[0,7],horizont:6,host:[2,4,6,9],how:[0,1,2,3,4,6,8,9],hss:[1,3],html:0,http:0,human:[2,6],hundr:6,hype:7,hypervisor:3,iceberg:1,idea:[1,3,4,6,8,9],ideal:6,ident:1,identifi:[1,2,6,8,9],idl:[1,8,9],ieee:6,ietf:1,ignor:[1,7],illustr:[1,4,6,8],immers:6,impact:[2,6,8],impair:8,implement:[1,2,3,5,6,7,9],impli:[1,2,3,4,6,7,8],implicit:[],importantli:2,impos:[2,8],imposs:7,improv:[0,4],includ:[0,1,2,3,4,6,8,9],incom:3,increas:[2,6,8],increasingli:[1,6],increment:[1,4],independ:[2,3,4,6,8],index:3,indic:8,indirect:[3,6],indirectli:1,individu:[1,2,4],industri:[1,3,6],influenc:1,inform:[0,1,3,4,8,9],infrastructur:[2,3,6],inher:2,inner:4,innov:[2,7,8,9],input:8,insert:8,insid:7,insight:9,inspir:6,instal:[0,4],instanc:3,instantan:9,instanti:4,instead:[1,4,8],instruct:3,integr:[2,6,9],intellectu:1,intend:[7,8,9],intent:6,intercept:1,interconnect:[1,2,3,6],interfac:[2,4,6,9],interfer:[3,8],intermitt:1,intern:[1,3,4,5],internet:[0,1,3,4,6,7],interpret:[4,6,8],interv:[8,9],introduc:[1,3,4,6,7,8,9],introduct:[1,4,5],intuit:8,invari:8,invers:8,invit:0,involv:[1,2,3,6,7,9],iot:[1,3,6,8],ipv4:4,ipv6:4,isdn:1,isol:[2,6],issu:[0,1,6],its:[1,2,3,4,6,7,8],job:[3,8],judg:8,judgement:3,just:[1,2,3,6,7,8],justic:1,keep:[1,3,4,6,8,9],kei:[1,3,4,8,9],kilobit:6,kilomet:6,kind:[1,6],know:7,known:[1,3,6,8],kpi:9,kubernet:4,label:[3,9],lack:1,lai:[6,8],lambda:2,landscap:5,languag:3,larg:[1,3,4,6,7],larger:[1,3],larri:[0,7],last:[1,6,7,8,9],late:9,latenc:[1,2,3,6,9],later:[1,4,6,8,9],latter:[1,3,6,9],law:1,layer:[1,3,4,6,9],lead:[6,8],leaf:[3,4],learn:[0,4,6],leav:[3,4,6],led:9,left:9,legaci:6,len:6,length:9,less:3,level:[1,2,3,6,8],licens:[0,6],life:6,lifetim:6,lightli:8,like:[0,1,2,3,4,6,7,8,9],likewis:8,limit:[3,4,6,7],line:[2,3,7,8],linear:3,link:[1,8,9],lint:0,list:[0,6,9],littl:6,live:[0,4],load:[1,4,8],local:[1,3,4],locat:[1,2,3,6,9],lock:3,logic:[3,4],longer:8,look:[0,1,3],loop:[2,9],lose:2,loss:[1,8],low:[2,3,6,9],lower:[2,3,6],lte:[6,8],mac:[3,9],machin:1,macro:3,made:[1,2,3,7,8],mai:[1,8],main:[5,9],maintain:9,major:[3,4,8],make:[0,1,2,3,4,6,8,9],makefil:0,mall:9,manag:[1,2,4,6,7,9],mani:[1,2,3,4,6,8,9],manifest:4,manipul:4,map:3,march:1,marcin:1,massiv:[1,3,6,8],match:8,materi:[0,7],math:[],mathsf:[],matter:[1,8],matur:4,maxim:8,maximum:8,mbp:6,mean:[1,3,4,6,8,9],meaning:9,measur:[6,9],mechan:[1,2,3,8],media:9,medic:1,medium:8,meet:1,megabit:6,mention:8,merg:[0,4],mesh:[1,3],messag:[1,8],met:6,metric:8,metropolitan:1,mhz:6,microservic:[1,3,4,6,9],mid:6,midhaul:[4,9],might:[0,1,2,3,4,6,8,9],migrat:[1,6],mile:[6,7],millimet:[6,8],million:6,millisecond:8,mimo:8,mind:[1,3,4,6,8,9],minim:[2,3,4,8],mission:[6,8],mkdir:0,mme:[1,3],mmwave:[6,8,9],mobil:[0,2,3,4,6,7,8,9],mode:4,model:[1,4,8],modern:3,modestli:9,modul:[3,4,5,9],monet:[2,3],more:[1,2,3,4,6,7,8,9],most:[3,8,9],mostli:[6,9],move:[1,2,3,6,8],movement:[1,8],mpl:4,mtso:6,much:[2,6,7,8],multi:[1,4,5,6],multicast:4,multipath:[1,8],multipl:[1,2,3,4,8,9],multiplex:[8,9],municip:6,must:[3,6,8,9],mutual:6,mvno:3,myriad:7,mysteri:7,name:[1,3,4,6],narrow:8,nation:6,nativ:[1,2,6],natur:[8,9],naval:6,navig:6,nbi:4,necessari:[1,3,4],need:[0,1,2,3,8,9],nef:1,neighbor:[1,9],nest:1,network:[0,2,4,7,8,9],next:[1,3,6,8,9],nfr:[],nfv:[1,6],nib:9,nine:8,node:[1,6,9],nois:8,non:[1,8],north:6,northbound:4,note:[1,3,6,8,9],noteworthi:1,notic:0,now:[1,2,3,4,6,7,9],nrf:1,nssf:[1,3],number:[2,3,6,8,9],nutshel:6,object:[6,8],observ:[1,2,8],obviou:[1,6],obvious:1,occupi:6,octob:6,ofdma:[3,8],off:[4,6,8],offer:[2,3,6,8],offic:[3,4,6],offici:[1,4,6,9],often:[1,3,6,8],oguz:[0,7],old:6,onc:[3,6,8],one:[1,3,4,6,7,8,9],ones:4,onli:[1,3,4,6,8,9],onlin:0,ono:[3,4],onto:[3,4],opaqu:1,open:[0,1,2,3,4,6,7,8,9],openconfig:4,opencord:[],oper:[1,2,3,4,6,8,9],opportun:[1,5,7],oppos:[1,6],optic:[1,6],optim:[4,5,8],optimist:8,option:[4,5,6,8],orang:4,orchestr:2,order:2,org:0,organ:[1,2,3],orient:[1,2,7,8,9],origin:[1,6,8,9],orthogon:8,other:[0,1,2,3,4,6,7,8,9],otherwis:7,ott:2,our:[1,3,4,6,8],ourselv:6,out:[0,1,2,3,6,7],outbound:9,outgo:1,outlin:[1,4,9],output:[0,8],over:[1,2,3,6,7,8,9],overal:6,overhead:2,overlai:3,overlap:[3,8],overnight:6,overview:[1,2,4],overwhelm:6,own:[2,3,4,6],owner:6,p4runtim:4,pace:2,packet:[1,3,4,5,6,8],pai:[3,6],pair:[1,3,4],pairwis:1,parallel:6,paramet:[8,9],part:[1,3,4,6,9],parti:1,partial:4,particip:[],particular:[1,4,9],particularli:1,partit:[1,3,9],partli:1,partnership:6,passiv:[1,6],past:6,path:[1,3,6,8,9],pattern:1,payload:1,pcdp:3,pcf:1,pcrf:[1,3],pdcp:[3,9],pdf:0,peak:6,penetr:7,peopl:[2,7],per:[1,3,4,6,8,9],perceiv:1,perfect:3,perform:[2,3,4],perhap:9,period:[1,8,9],peripheri:6,permit:6,persist:9,person:7,perspect:[1,2,6,7,8],peterson:[0,7],pgw:[1,3,4],phase:[1,8],phy:[3,9],physic:[1,3,6,8,9],pictur:[2,3,9],piec:8,pipelin:[2,3,4,5],place:[1,3,4,6],placement:2,plai:[1,2,4,8],plan:[1,7],plane:[1,4,5,9],platform:[2,5,6],plu:[4,8,9],plug:8,pod:4,point:[1,2,3,6,9],polar:8,polic:1,polici:[1,9],pon:[1,6],popul:[4,6],portion:6,possibl:[1,3,4,6,8,9],post:[0,1],potenti:[1,2,4,6,7,9],power:[1,3,6],practic:[1,2,3,4,6,8,9],prb:8,preced:8,predetermin:1,predict:[3,9],prefac:5,premis:[2,4],premium:3,prepar:8,prescrib:[1,3],presenc:6,present:[1,6],pressur:6,presum:1,preval:1,preview:3,previou:[1,2,3,4,8,9],primari:[6,8],prime:1,primer:8,principl:[3,6,9],prior:1,prioriti:[3,6,8],privat:[2,6],problem:[2,3,8],process:[0,1,3,4,5],processor:[1,2,3],product:[4,6],profil:4,program:[2,3,4],programm:[3,4],programmat:[4,9],progress:[0,4,7],project:[0,6],promis:[1,6],propag:8,properti:[1,8],proport:8,proposit:3,proprietari:[1,6,7],protect:9,proto:3,protocol:[1,3,9],prototyp:4,provid:[1,2,3,4,6,7,8,9],proxim:6,pseudowir:4,pstn:6,publish:0,pull:[0,3,7],puls:8,pure:9,purpos:[1,3,4,6,8,9],pursu:9,push:3,put:2,python:0,qam:8,qci:[3,8,9],qinq:4,quadratur:8,qualit:2,qualiti:[1,4,8],question:[4,6,8],queue:[3,9],quit:4,rack:4,radar:6,radio:[3,5,6,9],rais:7,ramif:6,ran:[1,2,4,5],rang:[2,6,8,9],rapidli:6,rate:[3,6,8],rather:[1,6],ratio:8,rcc:9,reach:[1,8],reachabl:1,read:[5,6,9],reader:[1,6,7],readi:4,readili:1,real:[2,3,4,9],realiti:[2,6,8],realiz:[3,4],realli:1,realtim:3,reason:[1,3,4,6],reassembl:9,recal:4,receiv:[0,3,6,8,9],recent:1,recogn:1,recommend:6,reconcil:2,record:1,recov:8,red:4,redraw:1,reduc:[3,4],reduct:2,ref:[],refactor:[1,2],refer:[1,2,3,6],referenc:1,reflect:8,refresh:0,region:6,regist:6,registr:1,rel:8,relai:4,relat:[1,3,4,9],relationship:8,releas:[1,4,6],relev:6,reliabl:[3,6,8,9],reload:0,remain:[1,3,4,8],remot:[2,3],renam:3,repeat:3,replac:4,replic:[3,6],report:[1,6,8,9],repositori:[0,1],repres:8,represent:[1,4],request:[0,9],requir:[0,1,2,3,4,6,9],research:5,reserv:[3,8],resourc:[2,3,8,9],respect:[1,3,4,8],respond:4,respons:[1,2,3,8,9],rest:[3,4,6,8,9],restat:3,restrict:3,result:[1,3,4,6,7,8,9],review:3,revisit:1,rich:[4,6],richer:6,right:[4,6,9],ring:1,risk:8,rlc:[3,9],robot:[1,6],role:[1,4,8],rollback:4,rollout:4,room:[3,6],root:8,roughli:1,rout:[1,4],router:[1,4],rrc:[3,9],rrm:9,rule:1,run:[0,1,2,3,4,6,9],runtim:4,safeti:[3,6],sai:[1,6,7,8],said:1,sake:4,same:[0,1,2,3,6,7,9],satellit:6,satisfi:1,save:0,savvi:7,scalabl:[1,2,3,4,6],scale:[2,3],scenario:[2,6,8],schedul:[1,3,5,9],schemat:4,scheme:8,scope:[3,4,7,9],scratch:1,sctp:1,sdn:[1,2,3,4,6,9],sdsf:1,seamlessli:2,seba:4,second:[1,3,4,6,8],section:[1,3,4,8],secur:2,see:[0,1,2,4,6,8,9],seem:[1,6],seemingli:7,seen:3,segment:[1,3,9],seldom:9,select:[1,3,4,8],selector:1,self:6,sell:6,semant:4,semi:9,send:[3,8,9],sens:8,sent:8,separ:[1,3],septemb:6,sequenc:[2,3,6,8],serv:[1,6,8,9],server:[1,3,4,6],servic:[1,2,3,4,6,8,9],session:[1,9],set:[1,3,4,6,7,8,9],sever:[1,3,4,6],sgw:[1,3,4],shape:[1,8],share:[3,6,7,8],shift:[1,8],shorter:8,should:[0,4,6],shouldn:6,show:[1,2,3,4,8,9],shown:[1,3,4,8,9],sigcomm:2,sight:[2,8],signal:[1,3,8],signific:[1,6],silent:[1,9],silo:2,similar:[1,6,9],simpler:3,simplest:9,simpli:9,simplic:6,simplif:3,simplifi:4,simultan:[6,8],sinc:[1,2,9],sine:8,singl:[1,2,3,4,6,8,9],sit:3,site:[1,2,3,4,6],situat:1,sixth:1,sizabl:4,size:[1,3,6,8,9],sketch:1,sla:1,slice:[1,2,4,5,9],slightli:1,sling:[],slot:8,small:[6,9],smartphon:[1,6],smf:[1,3],softwar:[2,3,4,5,6,7],solut:[1,2,6],solv:8,some:[2,3,4,6,8,9],someon:[1,7,8],someth:0,sometim:[1,2,6],somewhat:3,sophist:1,sort:3,sourc:[0,1,4,7],space:[3,7,8],span:2,spec:[1,3],special:[1,3,6],specif:[1,2,4,6,8,9],specifi:[1,3,8,9],spectrum:[1,3,6,8],speed:8,spell:1,spine:[3,4],split:[1,3,5],spread:[1,6,8,9],sql:1,squar:6,sst:3,stack:9,stage:[4,9],stakehold:[2,6],stand:1,standard:[1,3,4,5,9],starbuck:6,start:[1,3,4,6,8],state:[1,4,8,9],stateless:1,station:[1,6,8,9],stationari:8,statu:8,step:[1,2,3,4,6,9],still:[1,6],stone:6,storag:[1,2],store:[0,1],stori:1,straightforward:1,strategi:[1,3,8],stratum:4,stream:[1,3,4,8],stress:1,strictli:4,strive:8,structur:[1,3,9],sub:[1,8,9],subband:8,subcarri:8,subcompon:2,subscrib:[1,2,3,6,8],subscript:1,subsequ:8,subset:[3,8],substanti:[2,4],substitut:[1,4,8],subsum:2,subsystem:[1,3,4],suburban:8,success:7,suffici:[3,4,7],suggest:[1,7],summar:[1,6],summari:6,sunai:[0,7],support:[1,2,3,4,6,8],sure:[1,3],surpris:1,surround:6,sustain:[3,6],swarm:6,symbol:8,synonym:6,system:[0,1,2,3,4,6,7,8],systemsapproach:0,t_c:8,tabl:[4,5],tablet:1,tailor:[1,2,3],take:[1,2,3,8],takeawai:[1,3,6],taken:4,talk:[6,7,8],target:[6,8],tbp:6,tcp:1,tdma:8,teach:7,technic:6,techniqu:[1,2],technolog:[1,2,4,6,7,8],telco:[2,6],telecommun:1,telephon:6,telephoni:[1,6],ten:[2,6,7],tenanc:2,tenant:[2,4],tenfold:6,term:[0,1,4,6],termin:4,terminolog:[1,3,6,8],test:[4,6],text:6,than:[1,2,3,6,7],thei:[1,2,3,4,6,8,9],them:[1,2,4,6],theoret:8,therebi:9,thi:[1,2,3,4,5,6,7,8,9],thin:4,thing:[0,3,6,7],think:[3,4,6,9],third:[1,3],those:[1,2,3,4,6,8],though:[1,4,6],thousand:[2,6],thread:7,three:[1,3,4,6,8,9],through:[2,3,6,8],throughout:[1,2,3,6,9],tier:6,tight:2,time:[1,2,3,4,6,7,8,9],tip:1,titl:0,todai:[1,2,6],todo:0,tofino:3,togeth:[2,3,6],toler:3,tool:4,toolchain:4,toolset:0,top:[2,3,4,9],topic:8,topolog:[1,3,4],total:[3,8],touch:9,toward:[1,6,9],tower:[2,3,6,8,9],tpu:2,track:[0,1,3,6],tradit:[3,6,9],traffic:[1,3,4,8,9],train:[7,8],transfer:1,transform:[2,4,6,7,9],transit:[1,6,7,8],translat:[1,3],transmiss:[1,3,5,9],transmit:[3,6,8,9],transmitt:8,transport:1,travers:3,treatment:8,trelli:4,trend:6,trial:4,troubleshoot:4,trust:[1,2],tti:8,tunnel:[1,9],turbo:8,turn:[1,2,6,7,8,9],tutori:[],twitter:0,two:[1,3,4,6,8,9],type:[3,6,8,9],typic:[1,3,6,8,9],uber:3,udm:1,udp:1,udsf:1,ultim:[3,9],ultra:[3,6],under:0,undergo:2,undergon:6,underlai:3,underli:[2,3,4],understand:[1,2,3,4,6,7,8,9],understood:[1,3],underwai:1,undoubtedli:[6,7],undu:8,unfamiliar:6,unicast:4,unifi:1,uninterrupt:1,uniqu:8,unit:[3,8,9],unless:7,unlicens:6,unlik:[6,8],unravel:7,unreason:1,unstructur:1,until:1,updat:0,upf:[1,3],upgrad:[4,7],upon:1,upper:3,upstream:[1,4,9],urban:8,usag:[1,9],use:[0,1,2,3,4,6,8,9],used:[1,4,6,7,8],useful:7,user:[1,2,3,4,6,8,9],uses:[4,8],using:[1,2,3,4,8],util:[1,6,8],valid:[3,9],valu:[1,3,6,7,8,9],valuabl:1,vari:[3,6],variabl:4,variat:8,variou:[6,8],vehicl:[2,6],veloc:8,vendor:[1,4],veri:1,version:[0,9],vertic:2,via:[1,6],viabl:6,video:3,view:[1,4,9],viewabl:0,virtual:[1,2,3,4,6,9],virtualenv:0,vlan:4,vnf:2,voic:[1,6],wai:[1,2,3,4,6,8,9],want:[3,7],warehous:6,wave:[6,8],waveform:8,wealth:2,web:0,welcom:7,well:[1,2,3,4,8],went:2,were:1,west:4,what:[1,2,3,4,6,8,9],when:[1,3,4,6,8,9],where:[1,3,4,6,7,8,9],wherea:[3,8,9],whereabout:1,wherebi:1,whether:[1,6,8,9],which:[0,1,2,3,4,6,7,8,9],white:[2,3,4,6],whitebox:3,who:[6,8],whole:[1,2],why:3,wide:[1,2,3,6,8,9],wider:8,wifi:2,wiki:0,willing:0,win:6,window:8,wire:[1,4,6],wireless:[1,3,8],wirelin:[1,6],within:[4,6,8,9],without:[1,8],won:6,word:1,work:[0,1,3,4,6,7],workload:[2,3],world:[1,6,7],worth:[3,6],would:[1,3,9],write:[],written:7,xour:[],year:[1,6,7],yet:[1,4,6],yield:8,you:[0,1,3,4,6,7,9],your:[0,3,7],yourself:7,zero:9},titles:["About This Book","Chapter 3:  Basic Architecture","Chapter 7:  Cloudification of Access","Chapter 5:  Advanced Capabilities","Chapter 6:  Exemplar Implementation","5G Mobile Networks: A Systems Approach","Chapter 1:  Introduction","Preface","Chapter 2:  Radio Transmission","Chapter 4:  RAN Internals"],titleterms:{about:0,access:[1,2,6],advanc:3,approach:5,architectur:1,basic:1,book:0,build:0,capabl:3,chapter:[1,2,3,4,6,8,9],cloud:[2,3,6],cloudif:2,code:8,compon:[1,4],contribut:0,core:[1,3],data:3,defin:9,deploy:1,edg:6,exemplar:4,framework:4,implement:4,intern:9,introduct:6,landscap:6,main:1,mobil:[1,5],modul:8,multi:[2,3],network:[1,3,5,6],opportun:2,optim:3,option:1,packet:9,pipelin:9,plane:3,platform:4,prefac:7,process:9,radio:[1,8],ran:[3,9],read:0,research:2,schedul:8,slice:3,softwar:9,split:9,standard:6,system:5,thi:0,transmiss:8}})

diff --git a/arch.html b/arch.html
@@ -294,7 +294,7 @@ as opposed to a channel that carries “signalling” information.</p>
 <span id="fig-active-ue"></span><a class="reference internal image-reference" href="_images/Slide03.png"><img alt="_images/Slide03.png" src="_images/Slide03.png" style="width: 500px;" /></a>
 <p class="caption"><span class="caption-text">Figure 3.3: Base Station detects (and connects to) active UEs.</span></p>
 </div>
-<p>Second, each base station establishes ”3GPP Control Plane” connectivity
+<p>Second, each base station establishes “3GPP Control Plane” connectivity
 between the UE and the corresponding Mobile Core Control Plane
 component, and forwards signaling traffic between the two. This
 signaling traffic enables UE authentication, registration, mobility
@@ -477,7 +477,7 @@ Store” in a microservices-based system.</li>
 capabilities to third-party services, including translation between
 internal and external representations for data. Could be implemented
 by an “API Server” in a microservices-based system.</li>
-<li>NFR (NF Repository Function): A means to discover available services.
+<li>NRF (NF Repository Function): A means to discover available services.
 Could be implemented by a “Discovery Service” in a
 microservices-based system.</li>
 <li>NSSF (Network Slicing Selector Function): A means to select a Network

diff --git a/primer.html b/primer.html
@@ -352,7 +352,7 @@ the scheduler operates with even more degrees of freedom.</p>
 </div>
 <div class="section" id="scheduling-5g">
 <h2>2.3 Scheduling: 5G<a class="headerlink" href="#scheduling-5g" title="Permalink to this headline">¶</a></h2>
-<p>The transition from 4G to 5G introduces additional degrees-of-freedom in
+<p>The transition from 4G to 5G introduces additional flexibility in
 how the radio spectrum is scheduled, making it possible to adapt the
 cellular network to a more diverse set of devices and applications
 domains.</p>
